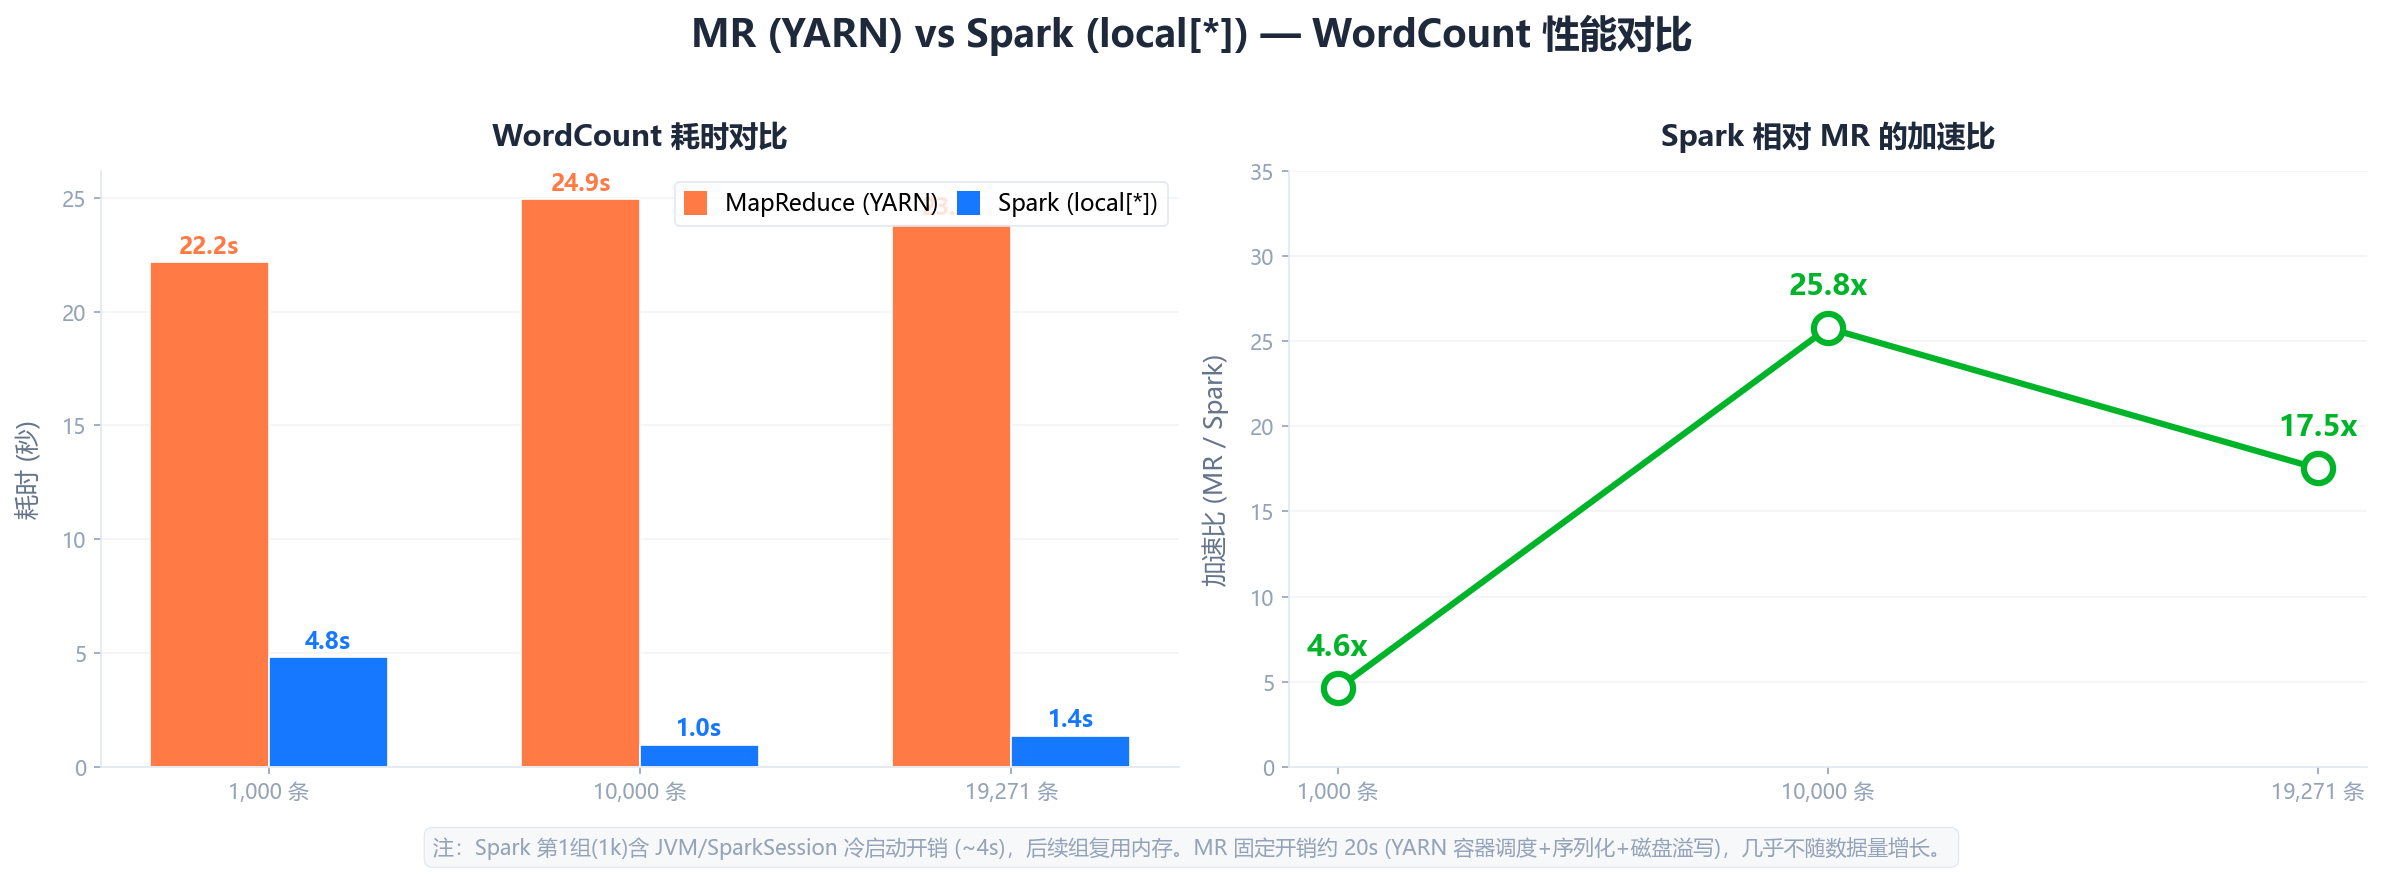
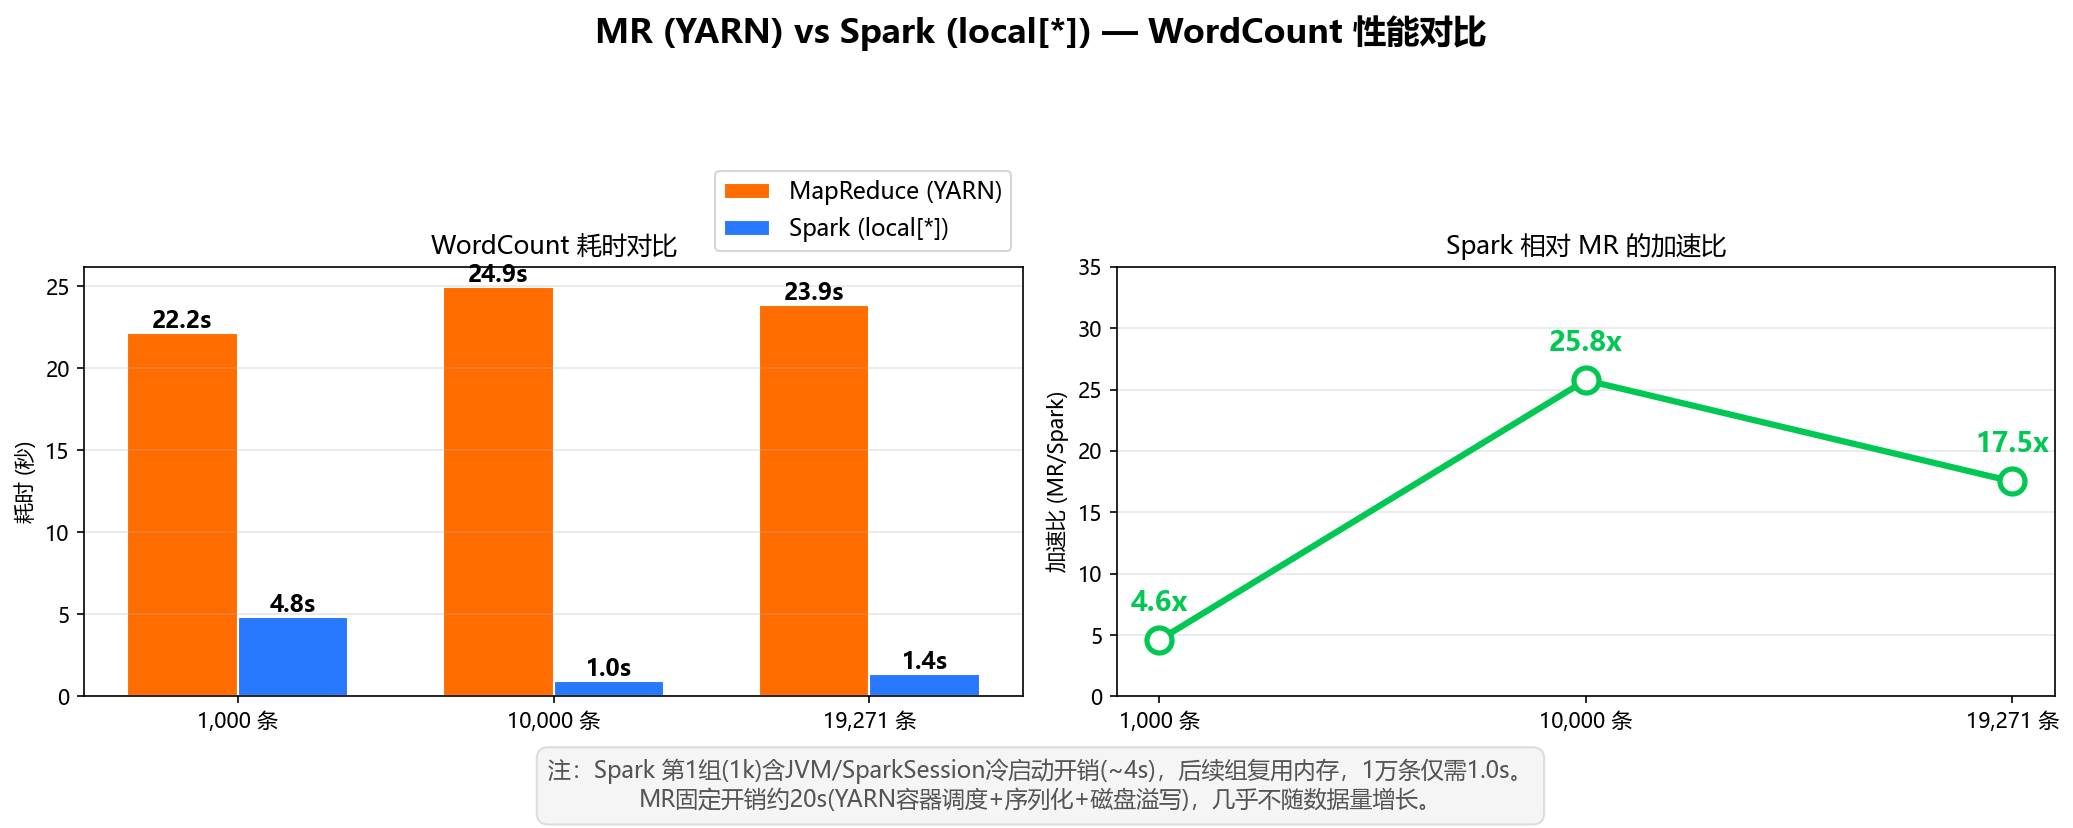
revert: LDA和MR/Spark图回滚到最终定稿版本

diff --git a/spark/plot_lda_viz.py b/spark/plot_lda_viz.py
@@ -1,9 +1,9 @@
 # -*- coding: utf-8 -*-
 """
 文件名：plot_lda_viz.py
-功能：LDA 主题模型结果可视化（v2 专业设计版）
+功能：LDA 主题模型结果可视化
 作者：梁思怡
-日期：2026-07-09
+日期：2026-07-08
 """
 import matplotlib
 matplotlib.use('Agg')
@@ -13,119 +13,56 @@ from matplotlib.gridspec import GridSpec
 plt.rcParams['font.sans-serif'] = ['Microsoft YaHei', 'SimHei']
 plt.rcParams['axes.unicode_minus'] = False
 
-# === 主题色 ===
-C = {'topic1':'#1677FF', 'topic2':'#F53F3F', 'topic3':'#FF7D00',
-     'topic4':'#86909C', 'topic5':'#722ED1'}
+topics = {
+    "主题1\n尺寸不符": {"small":0.15, "size":0.14, "low":0.10, "looks":0.09, "big":0.08, "thought":0.07, "smaller":0.06, "light":0.05},
+    "主题2\n商品损坏": {"work":0.13, "doesn":0.11, "arrived":0.10, "broken":0.10, "box":0.08, "bad":0.08, "came":0.07, "damaged":0.07},
+    "主题3\n音质/质量差": {"quality":0.16, "sound":0.14, "poor":0.12, "terrible":0.09, "earphone":0.08, "recommend":0.06, "working":0.06, "poor quality":0.05},
+    "主题4\n材质廉价": {"received":0.12, "cheap":0.11, "color":0.10, "photo":0.09, "plastic":0.09, "won":0.08, "case":0.07, "broke":0.06},
+    "主题5\n适配错误": {"didn":0.12, "good":0.11, "fit":0.11, "don":0.10, "ordered":0.08, "arrived":0.07, "iphone":0.06, "item":0.05},
+}
+topic_labels = list(topics.keys())
 
-# === 关键词数据（已过滤噪声词，保留核心语义） ===
-topics = [
-    ("尺寸不符", C['topic1'],
-     {"small":0.15,"size":0.14,"big":0.08,"smaller":0.06,"light":0.05,"low":0.10,"looks":0.09,"expected":0.05}),
-    ("商品损坏", C['topic2'],
-     {"broken":0.10,"damaged":0.07,"box":0.08,"came":0.07,"bad":0.08,"work":0.13,"arrived":0.10,"stopped":0.05}),
-    ("音质/质量差", C['topic3'],
-     {"quality":0.16,"sound":0.14,"poor":0.12,"poor quality":0.05,"terrible":0.09,"earphone":0.08,"sound quality":0.04,"headphones":0.06}),
-    ("材质廉价", C['topic4'],
-     {"cheap":0.11,"plastic":0.09,"color":0.10,"photo":0.09,"case":0.07,"broke":0.06,"material":0.05,"picture":0.05}),
-    ("适配错误", C['topic5'],
-     {"fit":0.11,"didn't fit":0.06,"ordered":0.08,"iphone":0.06,"item":0.05,"wrong":0.04,"size":0.05,"delivered":0.04}),
-]
+fig = plt.figure(figsize=(18, 10))
+gs = GridSpec(2, 4, width_ratios=[1, 1, 1, 1.4], figure=fig)
+fig.suptitle("LDA 主题模型 — 负面评论痛点聚类分析", fontsize=16, fontweight='bold', x=0.5)
 
-# === 各品类痛点数据 ===
-pain_data = [
-    ("蓝牙耳机", 250, 250, 125, 0, "音质差 & 商品损坏"),
-    ("LED小夜灯", 249, 185, 141, 0, "尺寸太小/与图片不符"),
-    ("手机壳", 0, 0, 83, 87, "材质廉价 & 适配错误"),
-    ("油壶", 0, 55, 0, 36, "到货损坏 & 材质廉价"),
-    ("连衣裙", 35, 0, 57, 45, "适配错误 & 尺寸不符"),
-]
-
-fig = plt.figure(figsize=(20, 9.5))
-gs = GridSpec(2, 4, width_ratios=[1, 1, 1, 1.3], figure=fig, hspace=0.35, wspace=0.18)
-
-# === 5 个主题词频图（上3下2，居中） ===
-positions = [(0,0),(0,1),(0,2),(1,0),(1,1)]  # 第5个在 (1,2) 不放图
-for idx, (name, color, words) in enumerate(topics):
-    if idx < 5:
-        ax = fig.add_subplot(gs[positions[idx]])
+# 上排：前3个主题 (0,0) (0,1) (0,2)
+for idx, (label, words) in enumerate(topics.items()):
+    if idx < 3:
+        row, col = 0, idx
     else:
-        break
+        row, col = 1, idx - 3  # 下排：第4和第5个主题 (1,0) (1,1)
+
+    ax = fig.add_subplot(gs[row, col])
     names = list(words.keys())
     values = list(words.values())
-    bars = ax.barh(range(len(names)), values, color=color, height=0.65)
+    colors = ['#1565c0','#1976d2','#1e88e5','#2196f3','#42a5f5','#64b5f6','#90caf9','#bbdefb']
+    bars = ax.barh(range(len(names)), values, color=colors)
     ax.set_yticks(range(len(names)))
-    ax.set_yticklabels(names, fontsize=11, color='#334155')
-    ax.set_title(name, fontsize=13, fontweight='bold', color='#1E293B', pad=8)
+    ax.set_yticklabels(names, fontsize=10)
+    ax.set_title(label, fontsize=12, fontweight='bold')
     ax.invert_yaxis()
-    ax.set_xlim(0, 0.20)
-    ax.tick_params(left=False, bottom=False, labelsize=10, colors='#94A3B8')
-    ax.spines['top'].set_visible(False)
-    ax.spines['right'].set_visible(False)
-    ax.spines['left'].set_visible(False)
-    ax.spines['bottom'].set_color('#E2E8F0')
-    ax.xaxis.grid(False)
-    ax.yaxis.grid(False)
+    ax.set_xlim(0, max(values)*1.3)
     for bar, val in zip(bars, values):
-        ax.text(bar.get_width()+0.003, bar.get_y()+bar.get_height()/2,
-                f'{val:.2f}', va='center', fontsize=9, color='#64748B')
+        ax.text(bar.get_width()+0.002, bar.get_y()+bar.get_height()/2, f'{val:.2f}', va='center', fontsize=9)
 
-# === 右下第5格：品类痛点条 ===
-ax_pain = fig.add_subplot(gs[1, 2])
-ax_pain.axis('off')
-pain_colors = [C['topic1'], C['topic2'], C['topic3'], C['topic4'], C['topic5']]
-topic_short = ['尺寸不符','商品损坏','音质/质量差','材质廉价','适配错误']
+# 分析结论框，占第4列（宽1.4倍）上下两行
+ax_conclusion = fig.add_subplot(gs[:, 3])
+ax_conclusion.axis('off')
+conclusion = ("\n\n  LDA 无监督聚类分析结论\n\n"
+    "  *  从 1,787 条低分评论自动发现 5 个痛点主题\n\n"
+    "  *  蓝牙耳机: 音质差 & 商品损坏 (各 250 条)\n\n"
+    "  *  LED 灯: 尺寸太小 / 与图片不符 (249 条)\n\n"
+    "  *  手机壳: 材质廉价 & 适配错误 (87 / 84 条)\n\n"
+    "  *  油壶: 到货损坏 & 材质廉价\n\n"
+    "  *  连衣裙: 适配错误 & 尺寸不符\n\n"
+    "  样本标准: starRating <= 2 且有英文翻译评论\n"
+    "  模型困惑度: 388.5")
 
-y_start = 0.92
-for pi, (prod, *counts) in enumerate([p[:-1] for p in pain_data]):
-    y = y_start - pi * 0.165
-    ax_pain.text(0.02, y + 0.03, prod, fontsize=11, fontweight='bold', color='#1E293B')
-    ax_pain.text(0.76, y + 0.03, pain_data[pi][5], fontsize=10, color='#64748B', ha='right')
-    # mini bars
-    total = sum(counts)
-    x0 = 0.02
-    for ci, cnt in enumerate(counts):
-        if cnt > 0:
-            w = cnt / max(250, total) * 0.30
-            rect = plt.Rectangle((x0, y), w, 0.025, facecolor=pain_colors[ci], transform=ax_pain.transAxes)
-            ax_pain.add_patch(rect)
-            x0 += w + 0.005
+ax_conclusion.text(0.06, 1.0, conclusion, fontsize=11, transform=ax_conclusion.transAxes,
+                verticalalignment='top', linespacing=1.5,
+                bbox=dict(boxstyle='round,pad=0.8', facecolor='#f8f9fa', edgecolor='#ccd0d5', linewidth=1.5))
 
-ax_pain.text(0.02, y_start - len(pain_data)*0.165 - 0.02,
-             f'样本: 1,787 条低分评论 (starRating ≤ 2)  ·  困惑度: 388.5  ·  n_components = 5',
-             fontsize=9, color='#CBD5E1')
-
-# === 右侧结论栏（跨两行） ===
-ax_c = fig.add_subplot(gs[:, 3])
-ax_c.axis('off')
-
-conclusion_items = [
-    (C['topic1'], "尺寸不符", "LED灯 (249)、连衣裙 (35)"),
-    (C['topic2'], "商品损坏", "蓝牙耳机 (250)、LED灯 (185)、油壶 (55)"),
-    (C['topic3'], "音质/质量差", "蓝牙耳机 (250)"),
-    (C['topic4'], "材质廉价", "手机壳 (87)、油壶 (36)、连衣裙 (45)"),
-    (C['topic5'], "适配错误", "手机壳 (84)、LED灯 (141)"),
-]
-
-y0 = 0.92
-card_h = 0.12
-for i, (color, name, desc) in enumerate(conclusion_items):
-    y = y0 - i * card_h
-    ax_c.plot(0.06, y, 'o', color=color, markersize=11, transform=ax_c.transAxes)
-    ax_c.text(0.14, y, name, fontsize=13, fontweight='bold', color='#1E293B',
-              va='center', transform=ax_c.transAxes)
-    ax_c.text(0.14, y - 0.035, desc, fontsize=10, color='#64748B',
-              va='center', transform=ax_c.transAxes)
-
-# 底部技术说明
-ax_c.text(0.06, 0.02, 'LDA 无监督聚类  ·  n=5  ·  困惑度 388.5  ·  短文本天然限制',
-          fontsize=10, color='#CBD5E1', transform=ax_c.transAxes)
-
-# === 全局标题 ===
-fig.suptitle('LDA 主题模型 — 负面评论痛点聚类分析',
-             fontsize=20, fontweight='bold', color='#1E293B', y=0.995)
-fig.text(0.5, 0.975, '1,787 条低分评论 (starRating ≤ 2) · 5 个自动聚类主题 · 英文翻译文本',
-         ha='center', fontsize=12, color='#94A3B8')
-
-plt.tight_layout(rect=[0, 0, 1, 0.96])
-plt.savefig("../charts/lda_topics.png", dpi=150, bbox_inches='tight', facecolor='white')
+plt.tight_layout(rect=[0, 0, 1, 0.94])
+plt.savefig("../charts/lda_topics.png", dpi=150, bbox_inches='tight')
 print("LDA 可视化已保存: charts/lda_topics.png")

diff --git a/spark/plot_mr_vs_spark.py b/spark/plot_mr_vs_spark.py
@@ -1,9 +1,9 @@
 # -*- coding: utf-8 -*-
 """
 文件名：plot_mr_vs_spark.py
-功能：MR vs Spark 性能对比可视化（v2 专业设计版）
+功能：MR vs Spark 性能对比可视化
 作者：梁思怡
-日期：2026-07-09
+日期：2026-07-08
 """
 import matplotlib
 matplotlib.use('Agg')
@@ -13,87 +13,48 @@ import numpy as np
 plt.rcParams['font.sans-serif'] = ['Microsoft YaHei', 'SimHei']
 plt.rcParams['axes.unicode_minus'] = False
 
-# === 数据 ===
+# 实际跑出来的数据
 datasets = ['1,000 条', '10,000 条', '19,271 条']
-mr_times    = [22.162, 24.941, 23.860]
+mr_times   = [22.162, 24.941, 23.860]
 spark_times = [4.819, 0.968, 1.362]
-speedup     = [22.162/4.819, 24.941/0.968, 23.860/1.362]
+speedup    = [22.162/4.819, 24.941/0.968, 23.860/1.362]
 
-# === 配色 ===
-C_MR     = '#FF7A45'  # MapReduce 暖橙
-C_SPARK  = '#1677FF'  # Spark 科技蓝
-C_SPEED  = '#00B42A'  # 加速比墨绿
-C_GRID   = '#F2F3F5'
-C_TEXT   = '#1E293B'
-C_MUTED  = '#94A3B8'
+fig, axes = plt.subplots(1, 2, figsize=(14, 5.5))
+fig.suptitle('MR (YARN) vs Spark (local[*]) — WordCount 性能对比', fontsize=16, fontweight='bold')
 
-fig, axes = plt.subplots(1, 2, figsize=(16, 5.8))
-fig.subplots_adjust(wspace=0.25, left=0.06, right=0.98, top=0.88)
-
-# === 左图：柱状图 ===
-ax = axes[0]
+# 左图：并排柱状图
 x = np.arange(len(datasets))
-w = 0.32
+width = 0.35
+bars1 = axes[0].bar(x - width/2, mr_times, width, label='MapReduce (YARN)', color='#ff6d00', edgecolor='white')
+bars2 = axes[0].bar(x + width/2, spark_times, width, label='Spark (local[*])', color='#2979ff', edgecolor='white')
+axes[0].set_ylabel('耗时 (秒)')
+axes[0].set_title('WordCount 耗时对比')
+axes[0].set_xticks(x)
+axes[0].set_xticklabels(datasets)
+axes[0].legend(fontsize=11, loc='upper right', bbox_to_anchor=(1.0, 1.25))
+axes[0].grid(axis='y', alpha=0.3)
 
-b1 = ax.bar(x - w/2, mr_times, w, color=C_MR, edgecolor='white', linewidth=0.8, zorder=2)
-b2 = ax.bar(x + w/2, spark_times, w, color=C_SPARK, edgecolor='white', linewidth=0.8, zorder=2)
+# 柱上标数值
+for bar, val in zip(bars1, mr_times):
+    axes[0].text(bar.get_x()+bar.get_width()/2, bar.get_height()+0.3, f'{val:.1f}s', ha='center', fontsize=11, fontweight='bold')
+for bar, val in zip(bars2, spark_times):
+    axes[0].text(bar.get_x()+bar.get_width()/2, bar.get_height()+0.3, f'{val:.1f}s', ha='center', fontsize=11, fontweight='bold')
 
-ax.set_xticks(x)
-ax.set_xticklabels(datasets, fontsize=12, color=C_TEXT)
-ax.set_ylabel('耗时 (秒)', fontsize=12, color='#64748B', labelpad=10)
-ax.set_title('WordCount 耗时对比', fontsize=14, fontweight='bold', color=C_TEXT, pad=12)
-ax.tick_params(labelsize=10, colors=C_MUTED)
-ax.spines['top'].set_visible(False)
-ax.spines['right'].set_visible(False)
-ax.spines['left'].set_color('#E2E8F0')
-ax.spines['bottom'].set_color('#E2E8F0')
-ax.yaxis.grid(True, color=C_GRID, linewidth=0.8)
-ax.set_axisbelow(True)
+# 右图：加速比折线
+axes[1].plot(datasets, speedup, color='#00c853', marker='o', linewidth=3, markersize=12,
+             markerfacecolor='white', markeredgewidth=2.5, markeredgecolor='#00c853')
+axes[1].set_ylabel('加速比 (MR/Spark)')
+axes[1].set_title('Spark 相对 MR 的加速比')
+axes[1].grid(axis='y', alpha=0.3)
+axes[1].set_ylim(0, 35)
+for i, (d, s) in enumerate(zip(datasets, speedup)):
+    axes[1].annotate(f'{s:.1f}x', (d, s), textcoords="offset points", xytext=(0,14),
+                     ha='center', fontsize=13, fontweight='bold', color='#00c853')
 
-# 柱上数值
-for bar, val in zip(b1, mr_times):
-    ax.text(bar.get_x()+bar.get_width()/2, bar.get_height()+0.4,
-            f'{val:.1f}s', ha='center', fontsize=11, fontweight='bold', color=C_MR)
-for bar, val in zip(b2, spark_times):
-    ax.text(bar.get_x()+bar.get_width()/2, bar.get_height()+0.4,
-            f'{val:.1f}s', ha='center', fontsize=11, fontweight='bold', color=C_SPARK)
+# 底部结论文字（精简版，适合PPT）
+fig.text(0.5, 0.02, '注：Spark 第1组(1k)含JVM/SparkSession冷启动开销(~4s)，后续组复用内存，1万条仅需1.0s。\nMR固定开销约20s(YARN容器调度+序列化+磁盘溢写)，几乎不随数据量增长。',
+         ha='center', fontsize=11, color='#555', bbox=dict(boxstyle='round,pad=0.5', facecolor='#f5f5f5', edgecolor='#ddd'))
 
-# 图例
-legend1 = plt.Rectangle((0,0),1,1, fc=C_MR)
-legend2 = plt.Rectangle((0,0),1,1, fc=C_SPARK)
-ax.legend([legend1, legend2], ['MapReduce (YARN)', 'Spark (local[*])'],
-          fontsize=11, loc='upper right', frameon=True, edgecolor='#E2E8F0',
-          handlelength=1, handleheight=1.2, ncol=2, columnspacing=0.8)
-
-# === 右图：加速比 ===
-ax2 = axes[1]
-ax2.plot(datasets, speedup, color=C_SPEED, marker='o', linewidth=3, markersize=14,
-         markerfacecolor='white', markeredgewidth=3, markeredgecolor=C_SPEED, zorder=3)
-ax2.set_ylabel('加速比 (MR / Spark)', fontsize=12, color='#64748B', labelpad=10)
-ax2.set_title('Spark 相对 MR 的加速比', fontsize=14, fontweight='bold', color=C_TEXT, pad=12)
-ax2.tick_params(labelsize=10, colors=C_MUTED)
-ax2.spines['top'].set_visible(False)
-ax2.spines['right'].set_visible(False)
-ax2.spines['left'].set_color('#E2E8F0')
-ax2.spines['bottom'].set_color('#E2E8F0')
-ax2.set_ylim(0, 35)
-ax2.yaxis.grid(True, color=C_GRID, linewidth=0.8)
-ax2.set_axisbelow(True)
-
-for d, s in zip(datasets, speedup):
-    ax2.annotate(f'{s:.1f}x', (d, s), textcoords="offset points", xytext=(0, 16),
-                 ha='center', fontsize=14, fontweight='bold', color=C_SPEED)
-
-# === 底部注释 ===
-fig.text(0.5, 0.02,
-         '注：Spark 第1组(1k)含 JVM/SparkSession 冷启动开销 (~4s)，后续组复用内存。MR 固定开销约 20s (YARN 容器调度+序列化+磁盘溢写)，几乎不随数据量增长。',
-         ha='center', fontsize=10, color=C_MUTED,
-         bbox=dict(boxstyle='round,pad=0.4', facecolor='#F7F8FA', edgecolor='#E2E8F0', linewidth=0.6))
-
-# === 全局标题 ===
-fig.suptitle('MR (YARN) vs Spark (local[*]) — WordCount 性能对比',
-             fontsize=18, fontweight='bold', color=C_TEXT, y=0.985)
-
-plt.tight_layout(rect=[0, 0.05, 1, 0.96])
-plt.savefig("../charts/mr_vs_spark.png", dpi=150, bbox_inches='tight', facecolor='white')
+plt.tight_layout(rect=[0, 0.08, 1, 0.95])
+plt.savefig("../charts/mr_vs_spark.png", dpi=150, bbox_inches='tight')
 print("MR vs Spark 对比图已保存: charts/mr_vs_spark.png")